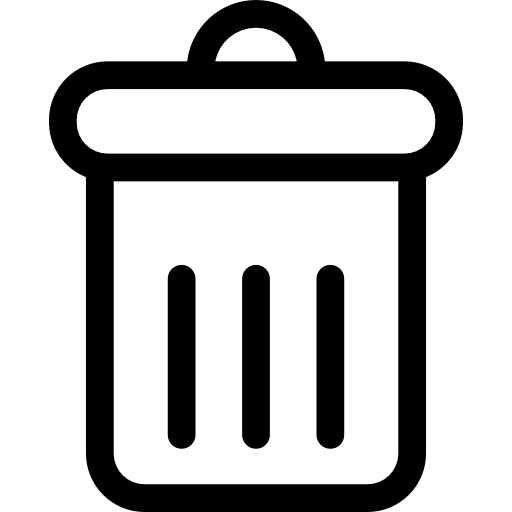
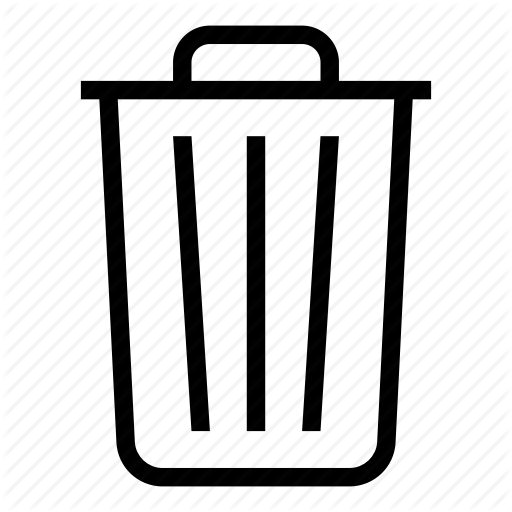
fixed fade messages

diff --git a/script.js b/script.js
@@ -32,6 +32,7 @@ function addItem(parentId, elementTag, propertiesObj, htmlText )  {
 }
 
 function removeItem(nodeId){
+  //  get digits from the tag name
   var id = nodeId.replace(/[^0-9]/g,'');
   // alert(id)
   let containerId =  "li" + id
@@ -47,7 +48,44 @@ function removeItem(nodeId){
     uncheckedTotal--
     uncheckedCountSpan.innerHTML = uncheckedTotal
   }
+
+  fadeOutEffect("delete")
   item.remove()
+}
+
+function fadeOutEffect(action)  {
+  
+  //init
+  let fadeTarget
+
+  if (action === "add") {
+    fadeTarget = document.getElementById('successContainer')
+  }
+  else if (action === "delete") {
+    fadeTarget = document.getElementById('deleteContainer')
+  }
+  
+  fadeTarget.style.opacity = 0
+
+  let fadeEffect = setInterval( function()  {
+    // if ( fadeTarget.style.opacity < 0.1)  {
+    //   fadeTarget.style.opacity = 1
+    //   // alert("opac")
+    //   // fadeTarget.style.display = "block"
+    // }
+
+    if (fadeTarget.style.display === "none" || fadeTarget.style.display === "") {
+      fadeTarget.style.display = "block"
+      fadeTarget.style.opacity = 1
+    }
+    if (fadeTarget.style.opacity > 0) {
+      fadeTarget.style.opacity -= 0.1
+    }
+    else {
+      clearInterval(fadeEffect)
+      fadeTarget.style.display = "none"
+    }
+  }, 300) // multiply by 10 to get fade out time in miliseconds.
 }
 
 function sanitarize(string) {
@@ -103,7 +141,14 @@ function newTodo() {
   let sanitized_input = sanitarize(document.getElementById('todo-input').value)
   const item = {text: sanitized_input, checked: false }
   newList.push(item)
-  itemPushed = true
+  // itemCreated = true
+  // if (itemCreated)  {
+  //   fadeOutEffect()
+  //   itemCreated = false
+  // }
+  
+  fadeOutEffect("add")
+
   document.getElementById("todo-input").value=""
 
   // increase counts.
@@ -128,7 +173,7 @@ function newTodo() {
     "type": "image",
     "id": "delete" + counter,
     "name": "delete-btn",
-    "src": "./a.png",
+    "src": "./delete.png",
     class: "todo-delete",
     title: "Delete this item",
     style: "margin-left:50px; height:25px; width:25px;",
@@ -158,40 +203,6 @@ function newTodo() {
   // counter for naming
   counter++
 
-  let fadeTarget = document.getElementById('successMessage')
-
-  fadeTarget.style.opacity = 0
-
-  function fadeOutEffect()  {
-    let fadeEffect = setInterval( function()  {
-      // if ( fadeTarget.style.opacity < 0.1)  {
-      //   fadeTarget.style.opacity = 1
-      //   // alert("opac")
-      //   // fadeTarget.style.display = "block"
-      // }
-      if (fadeTarget.style.display === "none") {
-        fadeTarget.style.display = "block"
-        fadeTarget.style.opacity = 1
-      }
-      if (fadeTarget.style.opacity > 0) {
-        fadeTarget.style.opacity -= 0.1
-      }
-      else {
-        clearInterval(fadeEffect)
-        fadeTarget.style.display = "none"
-      }
-    }, 100)
-  }
-  if (itemPushed)  {
-    fadeOutEffect()
-    itemPushed = false
-  }
-
-  // document.getElementById('todo-list').innerHTML += todoListText
-
   uncheckedCountSpan.innerHTML = uncheckedTotal
   itemCountSpan.innerHTML = itemTotal
-  //alert(newList[0].checked)
-
-  //samlist.innerHTML =todoListText
 }

diff --git a/styles.css b/styles.css
@@ -122,12 +122,46 @@ input:focus  {
   /* overflow-y: auto; */
 }
 
-#successContainer {
-  font-size: 22px;  
-  margin: auto; 
-  width:30px; 
-  height: 24px; 
-  display:none;
+#fadeContainer {
+  margin: 0 ;
+  padding: 0;
+  font-size: 20px;  
+  /* margin: auto;  */
+  align-self: center;
+  width:500px; 
+  height: 30px; 
   text-align:center;
-  position:relative;
+  /* position:relative; */
+}
+
+#successContainer, #deleteContainer {
+  display:none;
+  margin: 0 ;
+  padding: 0;
+  font-size: 20px;  
+  /* margin: auto;  */
+  align-self: center;
+  width:500px; 
+  height: 30px; 
+  /* display:none; */
+  text-align:center;
+  /* position:relative; */
+}
+
+#successMessage {
+  
+  color: green; 
+  align-self: center;
+  width:500px; 
+  height: 30px;
+  /* position:absolute; */
+}
+
+#deleteMessage {
+  
+  color: red; 
+  align-self: center;
+  width:500px; 
+  height: 30px;
+  /* position:absolute; */
 }

diff --git a/index.html b/index.html
@@ -16,9 +16,17 @@
       <center><h3> Add Todo Here: </h3></center>
       <input name = "new-item" id = "todo-input" placeholder="Add item, press <Enter> ... repeat" required> </input>
       <button hidden id="btn" class="button center" onClick="newTodo()">New TODO</button>
-      <div id="successContainer">
-      <div id="successMessage" style = "color: green; margin-top: 10px; display:none; position:absolute; ">New to-do item added!
-      </div>
+      <div id = "fadeContainer">
+        <div id="successContainer">
+          <div id="successMessage">
+            New to-do item added!
+          </div>
+        </div>
+        <div id="deleteContainer">
+          <div id="deleteMessage">
+              Item deleted!
+            </div>
+        </div>
       </div>
 
       <ul id="todo-list" class="list-group"></ul>
